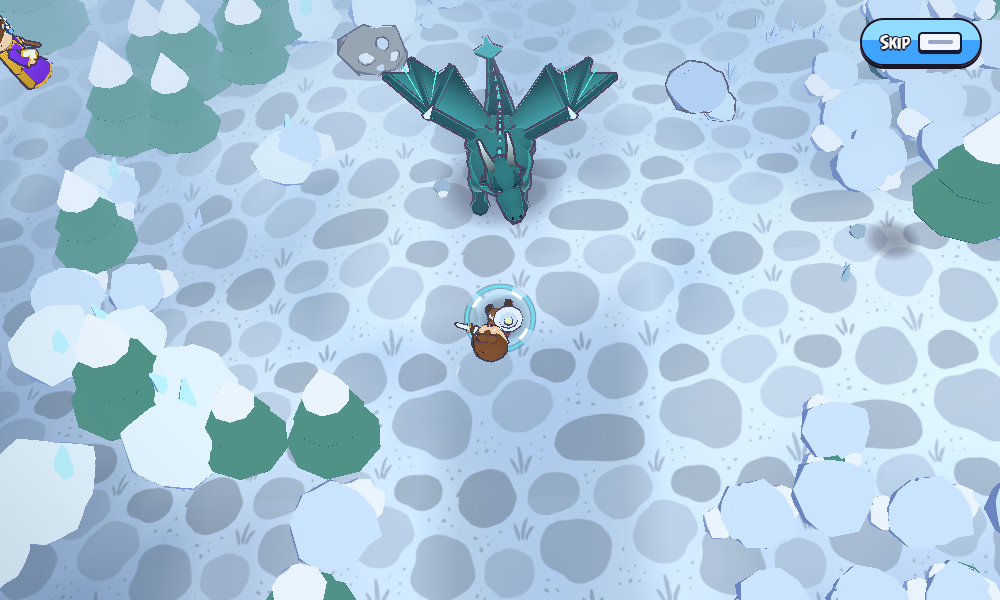
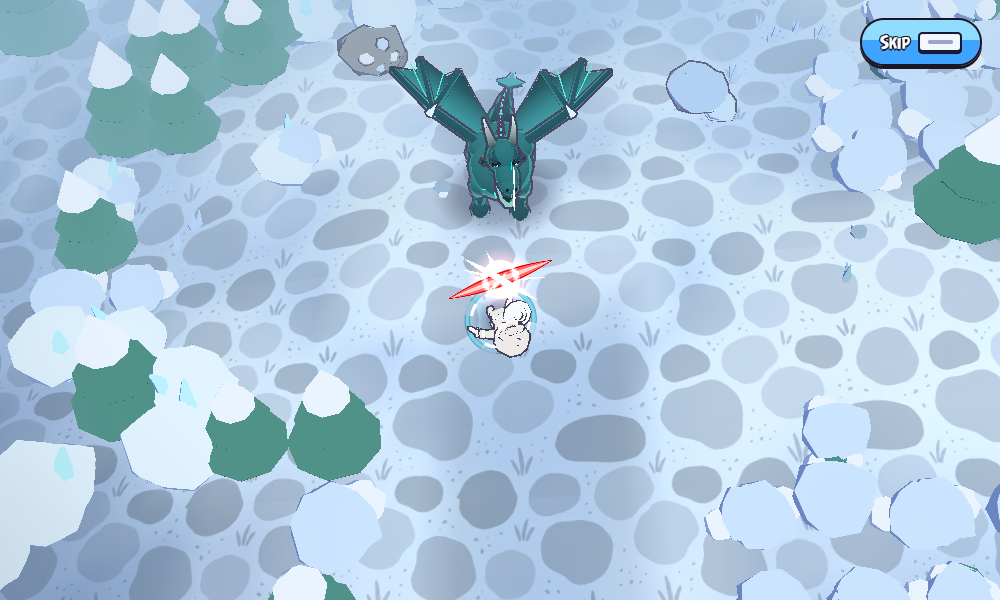
Intro: a staged pack is left alone by the follower AI (it walked them to the hero and turned them on him)
Claude-Session: https://claude.ai/code/session_01DaNtQ3j6mYjJNK3dDcu6d7

diff --git a/tests/game/introScene.test.ts b/tests/game/introScene.test.ts
@@ -25,6 +25,28 @@ describe('the intro only asks the effects for what they know', () => {
   })
 })
 
+describe('a staged pack is not walked to the hero', () => {
+  it('a minion with a stage flag keeps its place and its facing while the hero stands elsewhere', async () => {
+    const { spawnMinion } = await import('@/game/sim/spawn')
+    const plan = generateZone(ZONES.tundra, 130, {})
+    const sim = new Sim({ seed: 130, w: plan.w, h: plan.h, level: 19, difficulty: 1, mode: 'zone', zone: 'tundra' })
+    applyPlan(sim, plan)
+    const ref = referenceBuild({ level: 1, cls: 'aegis' })
+    createHero(sim, { build: ref.build, skills: ref.skills, x: plan.start.x, z: plan.start.z, xpInto: 0, potions: 0 })
+    const m = spawnMinion(sim, 'packWolf', plan.start.x + 12, plan.start.z, 30, false)!
+    m.stunt = { lift: 0, flip: 0 }
+    m.facing = 1.1
+    const x0 = m.x
+    for (let t = 0; t < 3; t += 1 / 30) stepSim(sim, plan, 1 / 30)
+    expect(m.x).toBeCloseTo(x0, 5)
+    expect(m.facing).toBeCloseTo(1.1, 5)
+    // …and unflagged, the same wolf runs to the hero (why the flag matters).
+    const w = spawnMinion(sim, 'packWolf', plan.start.x + 12, plan.start.z, 30, false)!
+    for (let t = 0; t < 3; t += 1 / 30) stepSim(sim, plan, 1 / 30)
+    expect(Math.abs(w.x - (plan.start.x + 12))).toBeGreaterThan(1)
+  })
+})
+
 describe('the intro scene stays a scene', () => {
   it('no victory when the packs are dismissed, nor when the drake falls', () => {
     const plan = generateZone(ZONES.tundra, 130, {})

diff --git a/src/game/sim/ai.ts b/src/game/sim/ai.ts
@@ -223,7 +223,8 @@ export const stepAlly = (sim: Sim, u: Unit, dt: number): void => {
       if (!u.alive) return
     }
   }
-  if (isControlled(u) || u.action || !def) return
+  // A unit a script stages (the intro's pack, `unit.stunt`) is moved by hand: nothing here walks it to the hero.
+  if (isControlled(u) || u.action || !def || u.stunt) return
 
   // Command: Focus names the target; otherwise the nearest threat around the
   // hero (so the guard fights WITH him rather than wandering off).

diff --git a/src/game/intro/runner.ts b/src/game/intro/runner.ts
@@ -272,6 +272,9 @@ const play = (m: ZoneMode, c: Cast, t: number, act: IntroAct, who: 'beast' | 'ma
         mn.s.maxHp *= 200
         mn.hp = mn.s.maxHp
         mn.aiT = 1e9
+        // Staged: the sim's own follower AI (which walks a minion to its owner, the hero in the snow, and has it look at him)
+        // leaves it alone.
+        mn.stunt = { lift: 0, flip: 0 }
         c.pack.push(mn)
         c.bite.push(0)
       }
